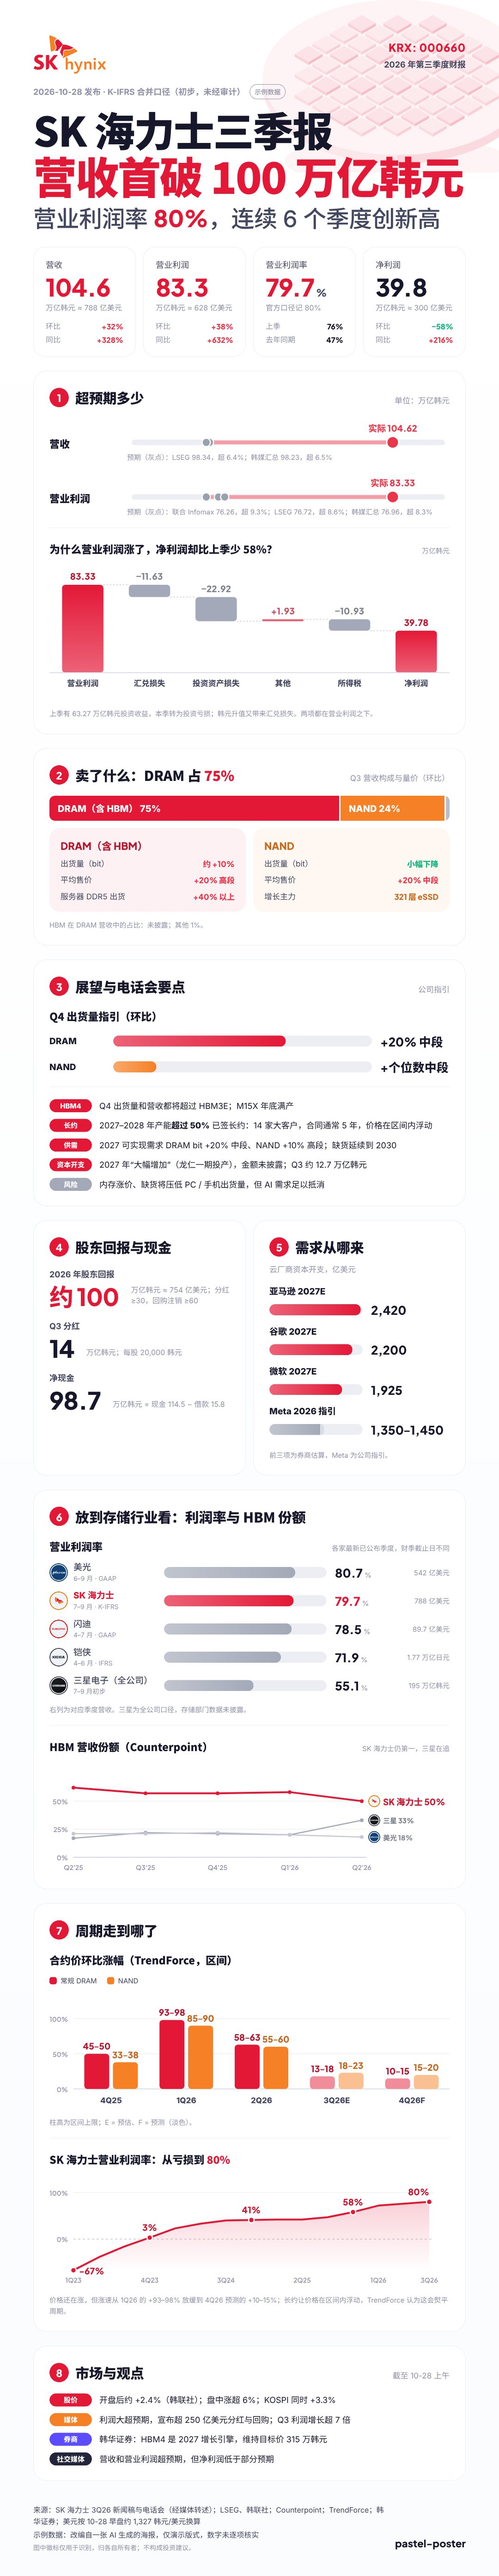
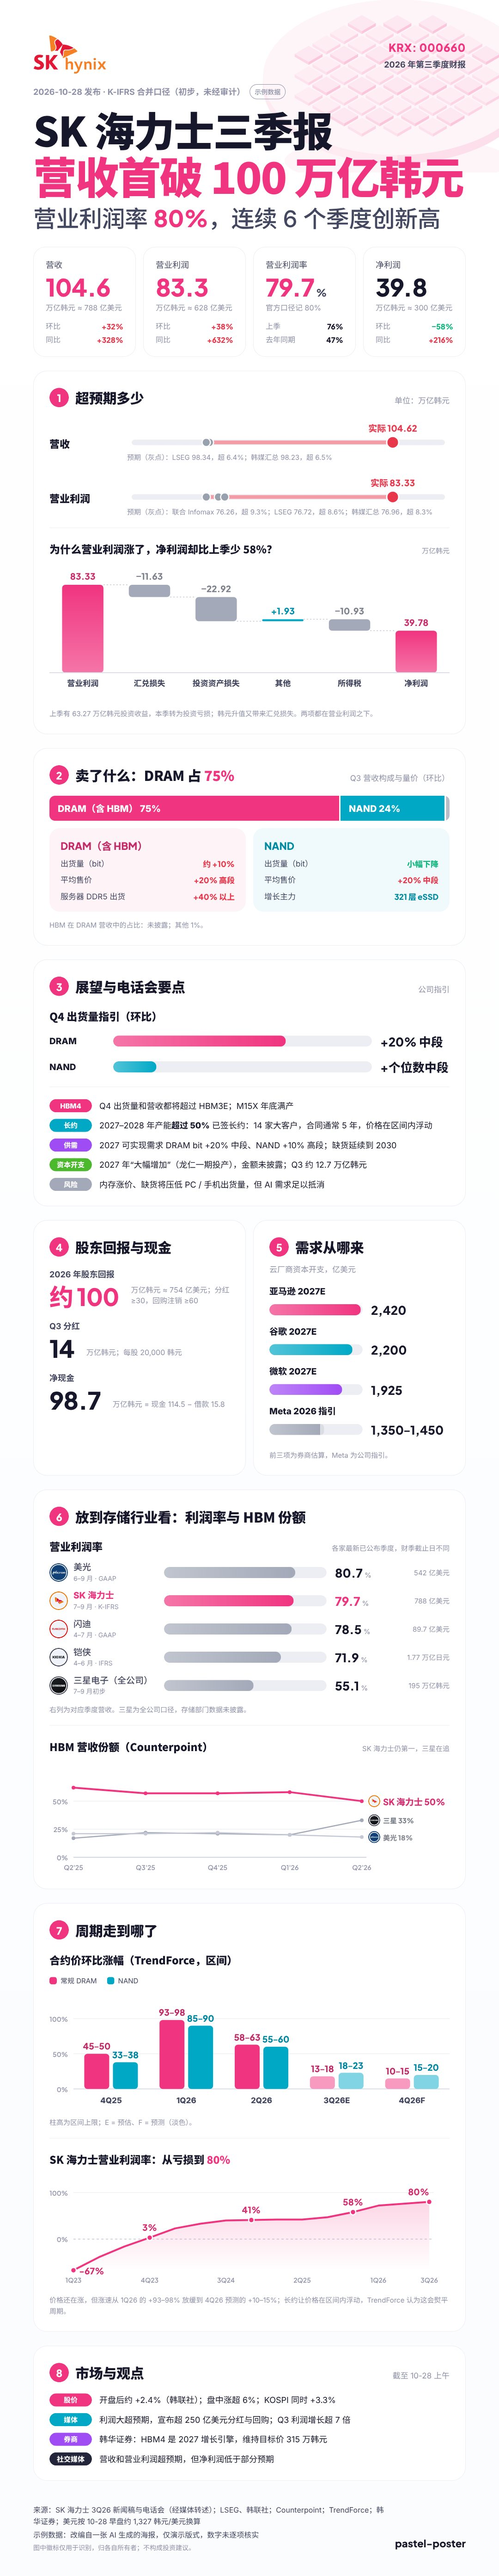
主题色吸附到自有 8 色，强调色只用在重点处
- brand.colors / accent 只用来判断色系，自动换成 8 色里最接近的颜色（品牌原色偏淡偏灰时会发土）；exact_color 可保留原色
- 并列类别默认多彩：横条、圆环、卡片、要点标签、步骤、时间线、小多图、漏斗、金字塔按分类色显示，colors:"accent" 才统一用强调色
- 瀑布图增项改用第二分类色；字标等外部图片下载加重试
- 同步 style、palette、sections、logos、SKILL、schema 和效果图

Claude-Session: https://claude.ai/code/session_0139H7ZCURJBvAAQ8BsmNvxP

diff --git a/skill/pastel-poster/assets/poster-template.html b/skill/pastel-poster/assets/poster-template.html
@@ -525,11 +525,17 @@ function isoSVG(kind,pal,width,shadow,maxH){if(!DRAW[kind])return"";const B=new 
 
 /* ---------- 颜色与文字 ---------- */
 const BRANDC=((SPEC.brand&&SPEC.brand.colors)||[]).map(c=>c.toLowerCase());
-const ACC=(SPEC.accent||BRANDC[0]||CATS[0]).toLowerCase();
+// 主题色吸附：品牌色只用来判断色系，换成 8 色里色相最接近的那个（品牌色偏淡、偏灰时直接画会发土）；
+// 发灰、近黑近白的颜色用默认靛紫。确实要原色时写 "exact_color": true
+function hsl(h){const[r,g,b]=hex2rgb(h).map(v=>v/255),mx=Math.max(r,g,b),mn=Math.min(r,g,b),l=(mx+mn)/2,d=mx-mn;
+  if(!d)return[0,0,l];const s=d/(1-Math.abs(2*l-1));let H=mx===r?((g-b)/d)%6:mx===g?(b-r)/d+2:(r-g)/d+4;return[(H*60+360)%360,s,l]}
+function snapTheme(c){if(!c)return CATS[0];c=c.toLowerCase();if(SPEC.exact_color||CATS.includes(c))return c;const[h,sat,l]=hsl(c);
+  if(sat<.2||l<.12||l>.93)return CATS[0];let best=CATS[0],bd=1e9;
+  CATS.forEach(k=>{const[h2,,l2]=hsl(k),dh=Math.min(Math.abs(h-h2),360-Math.abs(h-h2)),d=dh+Math.abs(l-l2)*60;if(d<bd){bd=d;best=k}});return best}
+const ACC=snapTheme(SPEC.accent||BRANDC[0]);
 // 分类色：强调色（品牌色）和品牌辅色排前面，再接 8 色里和它们不太像的；强调色本身是 8 色之一时直接从它轮转
 const cdist=(a,b)=>{const x=hex2rgb(a),y=hex2rgb(b);return Math.hypot(x[0]-y[0],x[1]-y[1],x[2]-y[2])};
-const HEAD=[ACC,...BRANDC.filter(c=>c!==ACC)];
-const PAL=CATS.includes(ACC)&&HEAD.length===1?[...CATS.slice(CATS.indexOf(ACC)),...CATS.slice(0,CATS.indexOf(ACC))]:[...HEAD,...CATS.filter(c=>HEAD.every(h=>cdist(c,h)>110))];
+const PAL=CATS.includes(ACC)?[...CATS.slice(CATS.indexOf(ACC)),...CATS.slice(0,CATS.indexOf(ACC))]:[ACC,...CATS.filter(c=>cdist(c,ACC)>110)];
 // 文字安全色：太浅的颜色（黄、浅青等品牌色）用作文字时自动加深，保证在白底上看得清
 const lum=h=>{const[r,g,b]=hex2rgb(h).map(v=>{v/=255;return v<=.03928?v/12.92:Math.pow((v+.055)/1.055,2.4)});return .2126*r+.7152*g+.0722*b};
 function ink(c){let x=c;for(let t=.1;t<.8&&1.05/(lum(x)+.05)<3.2;t+=.08)x=mix(c,K,t);return x}
@@ -601,7 +607,7 @@ const CH={
     const vals=bars.flatMap(b=>[b.a,b.b]),lo=Math.min(0,...vals),hi=Math.max(...vals);
     const top=44,H=s.height||250,xl=60,bk=(s.brackets||[]).length?48:0,C=new Chart(w,top+H+xl+bk);
     const y=v=>top+(hi-v)/(hi-lo)*H,n=bars.length,slot=w/n,bw=Math.min(118,slot*.62),tid="t"+(UID++);C.def(vgrad(tid,ACC));
-    const colOf=b=>b.it.g!=null?PAL[b.it.g%8]:b.it.total?ACC:s.colors==="updown"?(b.b>=b.a?UD.up:UD.down):(b.b>=b.a?mix(ACC,W,.3):DIM);
+    const colOf=b=>b.it.g!=null?PAL[b.it.g%8]:b.it.total?ACC:s.colors==="updown"?(b.b>=b.a?UD.up:UD.down):(b.b>=b.a?PAL[1]:DIM);
     bars.forEach((b,k)=>{const it=b.it,cx=slot*(k+.5),x0=cx-bw/2,c=colOf(b),st=it.state||"solid";const y1=y(Math.max(b.a,b.b)),y2=y(Math.min(b.a,b.b));
       if(it.total&&it.stack){const segs=[];for(let j=k-1;j>=0&&!bars[j].it.total;j--)segs.unshift(bars[j]);
         segs.forEach(sg=>{const cc=colOf(sg);rect(C,x0,y(sg.b),bw,y(sg.a)-y(sg.b),cc,sg.it.state,cc)})}
@@ -723,7 +729,7 @@ const SEC={
   bars(s){const hiOf=v=>Array.isArray(v)?v[1]:v,max=s.max||Math.max(...s.items.map(b=>hiOf(b.value)))*1.02,hl=s.items.some(b=>b.highlight),ex=s.items.some(b=>b.extra);
     const pc=v=>(Math.max(0,v)/max*100).toFixed(1);
     return `<div class="bars${s.layout==="stack"?" stack":""}" style="${s.label_width?`--lw:${s.label_width}px;`:""}${s.value_width?`--vw:${s.value_width}px`:""}">${s.items.map((b,i)=>{
-      const [lo,hi]=Array.isArray(b.value)?b.value:[b.value,b.value],g=hl?(b.highlight?"acc":"gray"):s.colors==="cats"?i:(b.tone==="gray"?"gray":"acc");
+      const [lo,hi]=Array.isArray(b.value)?b.value:[b.value,b.value],g=hl?(b.highlight?"acc":"gray"):b.tone==="gray"?"gray":s.colors==="accent"?"acc":i;
       const ci=b.company?coInfo(b.company):null,txt=`<div class="bl"><b>${rich(b.label||(ci&&(ci.name||ci.code))||"")}</b>${b.sub||ci?`<span>${esc(b.sub||(ci&&ci.code)||"")}</span>`:""}</div>`;
       const label=b.company?`<div class="bl-co">${badge(b.company,40)}${txt}</div>`:txt;
       const val=b.text!=null?rich(b.text):(lo===hi?fmt(lo):`${fmt(lo)}–${fmt(hi)}`)+(s.unit?`<small>${esc(s.unit)}</small>`:"");
@@ -734,10 +740,10 @@ const SEC={
   columns(s){return `${s.series.length>1?legendHTML(s.series.map((q,j)=>["box",q.g!=null?PAL[q.g%8]:PAL[j%8],q.name])):""}<div class="chart" data-chart="${reg("columns",{s})}"></div>`},
   // 标签 + 一句话：电话会要点、市场观点、风险提示。tone: up/down/gray/dark/accent 或分类色序号，不写则同名标签同色
   points(s){const tags=[...new Set(s.items.map(p=>p.tag))];return `<div class="pts" style="--cols:${s.cols||1}">${s.items.map(p=>{
-    const c=p.tone!=null?toneHex(p.tone):s.colors==="cats"?PAL[tags.indexOf(p.tag)%8]:ACC;return `<div class="pt">${p.tag?`<span class="ptag" style="background:${c}">${esc(p.tag)}</span>`:""}<div>${p.company?`<span class="co-in">${badge(p.company,30)}${esc(coInfo(p.company).name||coInfo(p.company).code)}</span>`:""}${rich(p.text)}${p.sub?`<small>${rich(p.sub)}</small>`:""}</div></div>`}).join("")}</div>`},
+    const c=p.tone!=null?toneHex(p.tone):s.colors==="accent"?ACC:PAL[tags.indexOf(p.tag)%PAL.length];return `<div class="pt">${p.tag?`<span class="ptag" style="background:${c}">${esc(p.tag)}</span>`:""}<div>${p.company?`<span class="co-in">${badge(p.company,30)}${esc(coInfo(p.company).name||coInfo(p.company).code)}</span>`:""}${rich(p.text)}${p.sub?`<small>${rich(p.sub)}</small>`:""}</div></div>`}).join("")}</div>`},
   callout(s){const c=toneHex(s.tone||"accent");return `<div class="callout" style="background:${mix(c,W,.91)}"><b style="color:${ink(mix(c,K,.2))}">${rich(s.title)}</b>${s.text?`<span>${rich(s.text)}</span>`:""}</div>`},
   text(s){return `<div class="p-text">${s.title?`<h3>${rich(s.title)}</h3>`:""}${s.text?`<p>${rich(s.text)}</p>`:""}</div>`},
-  cards(s){return `<div class="mcards" style="--n:${s.cols||Math.min(s.items.length,4)}">${s.items.map((c,i)=>`<div class="mcard" data-g="${s.colors==="cats"?i:"acc"}">${c.company?badge(c.company,44):""}${c.icon?`<i class="ico" data-ico="${esc(c.icon)}" style="--is:40px"></i>`:""}<b>${rich(c.title||(c.company&&coInfo(c.company).name)||"")}</b>${c.value!=null?`<strong>${rich(c.value)}</strong>`:""}${c.sub?`<span>${rich(c.sub)}</span>`:""}</div>`).join("")}</div>`},
+  cards(s){return `<div class="mcards" style="--n:${s.cols||Math.min(s.items.length,4)}">${s.items.map((c,i)=>`<div class="mcard" data-g="${s.colors==="accent"?"acc":i}">${c.company?badge(c.company,44):""}${c.icon?`<i class="ico" data-ico="${esc(c.icon)}" style="--is:40px"></i>`:""}<b>${rich(c.title||(c.company&&coInfo(c.company).name)||"")}</b>${c.value!=null?`<strong>${rich(c.value)}</strong>`:""}${c.sub?`<span>${rich(c.sub)}</span>`:""}</div>`).join("")}</div>`},
   // 热力表：格子颜色按 colors（不给则按 values）相对 center 的方向和幅度
   heatmap(s){const ctr=s.center??0,cv=s.rows.flatMap(r=>(r.colors||r.values).filter(v=>typeof v==="number").map(v=>Math.abs(v-ctr))),m=s.range||Math.max(...cv)||1;
     const f=v=>s.format==="pct"?(v>0?"+":"")+fmt(v)+"%":s.format==="x"?v.toFixed(1)+"×":fmt(v);
@@ -819,7 +825,7 @@ Object.assign(SEC,{
   treemap(s){const g=[...new Set(s.items.map(i=>i.group).filter(Boolean))];return (g.length>1?legendHTML(g.map((x,j)=>["box",PAL[j%PAL.length],x])):"")+`<div class="chart tm" data-chart="${reg("treemap",{s})}"></div>`},
   // 流程转化：漏斗
   funnel(s){const mx=Math.max(...s.items.map(i=>i.value)),u=s.unit||"",n=s.items.length;
-    return `<div class="fun">${s.items.map((it,k)=>{const wd=Math.max(16,it.value/mx*100),c=it.tone!=null?toneHex(it.tone):mix(ACC,W,k/Math.max(1,n-1)*.55);
+    return `<div class="fun">${s.items.map((it,k)=>{const wd=Math.max(16,it.value/mx*100),c=it.tone!=null?toneHex(it.tone):s.colors==="accent"?mix(ACC,W,k/Math.max(1,n-1)*.55):PAL[k%PAL.length];
       const cv=k?`<div class="fun-cv">↓ ${esc(s.conv_label||"转化")} ${(it.value/s.items[k-1].value*100).toFixed(1)}%</div>`:"";
       return cv+`<div class="fun-row">${lblock(it)}<div class="fun-bar"><div style="width:${wd.toFixed(1)}%;background:${c};color:${onC(c)}">${it.text!=null?rich(it.text):fmt(it.value)+esc(u)}</div></div></div>`}).join("")}</div>`},
   // 多维对比：雷达（≤3 个系列）
@@ -835,18 +841,18 @@ Object.assign(SEC,{
   // 流向：桑基图
   sankey(s){return `<div class="chart" data-chart="${reg("sankey",{s})}"></div>`},
   // 小多图：一组迷你走势卡片
-  sparks(s){return `<div class="spk" style="--n:${s.cols||3}">${s.items.map(it=>{const ok=it.values.filter(v=>v!=null),last=ok.at(-1),first=ok[0];
+  sparks(s){return `<div class="spk" style="--n:${s.cols||3}">${s.items.map((it,i)=>{const ok=it.values.filter(v=>v!=null),last=ok.at(-1),first=ok[0];
     const ch=it.change??(first?(last/first-1)*100:null),dir=typeof ch==="number"?(ch>=0?"up":"down"):autoTone(ch);
-    return `<div class="spk-it"><div class="spk-h">${lblock(it,30)}</div><div class="spk-v"><b>${it.value_text!=null?rich(it.value_text):fmt(last)}<small>${esc(s.unit||"")}</small></b>${ch!=null?`<em class="${dir}">${typeof ch==="string"?esc(ch):(ch>=0?"+":"−")+Math.abs(ch).toFixed(1)+"%"}</em>`:""}</div><div class="chart" data-chart="${reg("spark",{it,dir,s})}" style="height:64px"></div></div>`}).join("")}</div>`},
+    return `<div class="spk-it"><div class="spk-h">${lblock(it,30)}</div><div class="spk-v"><b>${it.value_text!=null?rich(it.value_text):fmt(last)}<small>${esc(s.unit||"")}</small></b>${ch!=null?`<em class="${dir}">${typeof ch==="string"?esc(ch):(ch>=0?"+":"−")+Math.abs(ch).toFixed(1)+"%"}</em>`:""}</div><div class="chart" data-chart="${reg("spark",{it,dir,s,i})}" style="height:64px"></div></div>`}).join("")}</div>`},
 
   // 时间线：vertical（默认）或 horizontal（≤6 个节点）
-  timeline(s){const it=s.items,dot=(x)=>{const c=x.tone!=null?toneHex(x.tone):x.highlight||s.highlight_all!==false?ACC:DIM;
+  timeline(s){const it=s.items,dot=(x)=>{const i=it.indexOf(x),c=x.tone!=null?toneHex(x.tone):s.colors==="accent"?ACC:PAL[i%PAL.length];
       return x.icon?`<i class="dt big" style="background:${c}"><i class="ico" data-ico="${esc(x.icon)}" style="--is:24px;color:#fff"></i></i>`:`<i class="dt" style="background:${c}"></i>`};
     const body=x=>`${x.company?`<span class="lab-co">${badge(x.company,28)}</span>`:""}<b>${rich(x.title)}</b>${x.text?`<span>${rich(x.text)}</span>`:""}`;
     if(s.layout==="horizontal")return `<div class="tlh" style="--n:${it.length}"><i class="tlh-ln"></i>${it.map(x=>`<div class="tlh-it${x.highlight?" hl":""}"><div class="tlh-t">${rich(x.time)}</div><div class="tlh-d">${dot(x)}</div>${body(x)}</div>`).join("")}</div>`;
     return `<div class="tlv">${it.map((x,i)=>`<div class="tlv-it${x.highlight?" hl":""}"><div class="tlv-t">${rich(x.time)}</div><div class="tlv-d">${i<it.length-1?`<i class="ln"></i>`:""}${dot(x)}</div><div class="tlv-c">${body(x)}</div></div>`).join("")}</div>`},
   // 步骤 / 流程：row（≤5 步横排带箭头）或 list（竖排）
-  steps(s){const it=s.items,lay=s.layout||(it.length<=5?"row":"list"),c=x=>x.tone!=null?toneHex(x.tone):ACC;
+  steps(s){const it=s.items,lay=s.layout||(it.length<=5?"row":"list"),c=x=>x.tone!=null?toneHex(x.tone):s.colors==="accent"?ACC:PAL[it.indexOf(x)%PAL.length];
     const num=(x,i)=>x.icon?`<i class="ico" data-ico="${esc(x.icon)}" style="--is:28px;color:${onC(c(x))}"></i>`:`<span style="color:${onC(c(x))}">${i+1}</span>`;
     if(lay==="row")return `<div class="stp" style="--n:${it.length}">${it.map((x,i)=>`<div class="stp-it">${i<it.length-1?`<i class="stp-ar"><em></em></i>`:""}<div class="stp-n" style="background:${c(x)}">${num(x,i)}</div><b>${rich(x.title)}</b>${x.text?`<span>${rich(x.text)}</span>`:""}</div>`).join("")}</div>`;
     return `<div class="stl">${it.map((x,i)=>`<div class="stl-it"><div class="stl-d">${i<it.length-1?`<i class="ln"></i>`:""}<div class="stp-n" style="background:${c(x)}">${num(x,i)}</div></div><div class="stl-c"><b>${rich(x.title)}</b>${x.text?`<span>${rich(x.text)}</span>`:""}</div></div>`).join("")}</div>`},
@@ -930,7 +936,7 @@ Object.assign(CH,{
       C.svg(`<polygon points="${q.values.map((v,k)=>P(pt(k,v))).join(" ")}" fill="${c}" fill-opacity="${hl&&!q.highlight?.06:.16}" stroke="${c}" stroke-width="${hl&&!q.highlight?2:3}" stroke-linejoin="round"/>`);
       q.values.forEach((v,k)=>{const[x,y]=pt(k,v);C.svg(`<circle cx="${x.toFixed(1)}" cy="${y.toFixed(1)}" r="4.5" fill="${c}"/>`);if(s.series.length===1||q.highlight)C.text(x,y-9,fmt(v),"sm","c","b",ink(c))})});
     C.done(el)},
-  ring(el,w,{it,i,s}){const size=Math.min(w,s.size||160),C=new Chart(w,size),cx=w/2,cy=size/2,sw=s.thickness||15,r=size/2-sw/2-2,c=it.tone!=null?toneHex(it.tone):s.colors==="cats"?PAL[i%PAL.length]:ACC;
+  ring(el,w,{it,i,s}){const size=Math.min(w,s.size||160),C=new Chart(w,size),cx=w/2,cy=size/2,sw=s.thickness||15,r=size/2-sw/2-2,c=it.tone!=null?toneHex(it.tone):s.colors==="accent"?ACC:PAL[i%PAL.length];
     const f=Math.max(0,Math.min(1,it.value/(it.max||s.max||100))),L=2*Math.PI*r;
     C.svg(`<circle cx="${cx}" cy="${cy}" r="${r}" fill="none" stroke="#eef0f4" stroke-width="${sw}"/>`);
     if(f>0)C.svg(`<circle cx="${cx}" cy="${cy}" r="${r}" fill="none" stroke="${c}" stroke-width="${sw}" stroke-linecap="round" stroke-dasharray="${(f*L).toFixed(1)} ${L.toFixed(1)}" transform="rotate(-90 ${cx} ${cy})"/>`);
@@ -949,8 +955,8 @@ Object.assign(CH,{
     names.forEach(n=>{const p=pos[n],t=`<b>${esc(n)}</b> ${fmt(val(n))}${esc(s.unit||"")}`;C.svg(`<rect x="${f(p.x)}" y="${f(p.y)}" width="${nw}" height="${f(p.h)}" rx="3" fill="${color[n]}"/>`);
       if(layer[n]===0)C.text(p.x-10,p.y+p.h/2,t,"sm sl","r","m");else if(layer[n]===Lc-1)C.text(p.x+nw+10,p.y+p.h/2,t,"sm sl","l","m");else C.text(p.x+nw+8,p.y+p.h/2,t,"sm sl mid","l","m")});
     C.done(el)},
-  spark(el,w,{it,dir,s}){const v=it.values,n=v.length,ok=v.filter(x=>x!=null),lo=Math.min(...ok),hi=Math.max(...ok),C=new Chart(w,64),X=i=>4+i/(n-1||1)*(w-8),Y=x=>6+(hi-x)/((hi-lo)||1)*52;
-    const c=it.tone!=null?toneHex(it.tone):s.colors==="updown"&&dir?UD[dir]:ACC,id="sp"+(UID++),pts=v.map((x,i)=>x==null?null:[X(i),Y(x)]).filter(Boolean),f=p=>p[0].toFixed(1)+","+p[1].toFixed(1);
+  spark(el,w,{it,dir,s,i}){const v=it.values,n=v.length,ok=v.filter(x=>x!=null),lo=Math.min(...ok),hi=Math.max(...ok),C=new Chart(w,64),X=i=>4+i/(n-1||1)*(w-8),Y=x=>6+(hi-x)/((hi-lo)||1)*52;
+    const c=it.tone!=null?toneHex(it.tone):s.colors==="updown"&&dir?UD[dir]:s.colors==="accent"?ACC:PAL[(i||0)%PAL.length],id="sp"+(UID++),pts=v.map((x,i)=>x==null?null:[X(i),Y(x)]).filter(Boolean),f=p=>p[0].toFixed(1)+","+p[1].toFixed(1);
     C.def(`<linearGradient id="${id}" x1="0" y1="0" x2="0" y2="1"><stop offset="0" stop-color="${c}" stop-opacity=".22"/><stop offset="1" stop-color="${c}" stop-opacity="0"/></linearGradient>`);
     C.svg(`<path d="M${pts[0][0].toFixed(1)},62L${pts.map(f).join("L")}L${pts.at(-1)[0].toFixed(1)},62Z" fill="url(#${id})"/><path d="M${pts.map(f).join("L")}" fill="none" stroke="${c}" stroke-width="3" stroke-linejoin="round" stroke-linecap="round"/><circle cx="${pts.at(-1)[0].toFixed(1)}" cy="${pts.at(-1)[1].toFixed(1)}" r="4.5" fill="${c}"/>`);
     C.done(el)},
@@ -964,7 +970,7 @@ Object.assign(CH,{
       const st=n._d===0?`background:${c};color:${onC(c)}`:leaf?`background:#fff;border:1.5px solid ${mix(c,W,.55)};color:#16172a`:`background:${mix(c,W,.86)};color:${ink(mix(c,K,.15))}`;
       return `<div class="tn" style="left:${f(X(n._d))}px;top:${f(n._y+6)}px;width:${f(colW)}px;height:${rowH-12}px;${st}"><b>${rich(n.label)}</b>${n.sub?`<span>${rich(n.sub)}</span>`:""}</div>`}).join("")},
   pyramid(el,w,s){const it=s.items,n=it.length,rowH=s.row_height||74,gap=6,pw=Math.min(w*(s.width||.46),480),C=new Chart(w,n*(rowH+gap)-gap),cx=pw/2,half=v=>(.14+.86*v)*pw/2,f=v=>v.toFixed(1);
-    it.forEach((x,k)=>{const y0=k*(rowH+gap),y1=y0+rowH,c=x.tone!=null?toneHex(x.tone):mix(ACC,W,k/Math.max(1,n-1)*.62);
+    it.forEach((x,k)=>{const y0=k*(rowH+gap),y1=y0+rowH,c=x.tone!=null?toneHex(x.tone):s.colors==="accent"?mix(ACC,W,k/Math.max(1,n-1)*.62):PAL[k%PAL.length];
       C.svg(`<polygon points="${f(cx-half(k/n))},${y0} ${f(cx+half(k/n))},${y0} ${f(cx+half((k+1)/n))},${y1} ${f(cx-half((k+1)/n))},${y1}" fill="${c}"/>`);
       C.text(cx,(y0+y1)/2,rich(x.title),"pyr","c","m",onC(c));
       if(x.text)C.t.push(`<span class="cl pyr-t" style="left:${f(pw+30)}px;top:${f((y0+y1)/2)}px;width:${f(w-pw-30)}px;transform:translate(0,-50%)">${rich(x.text)}</span>`)});

diff --git a/skill/pastel-poster/scripts/build_poster.py b/skill/pastel-poster/scripts/build_poster.py
@@ -95,9 +95,16 @@ ISO_OBJECTS = {"chip", "module", "rack", "coin", "globe", "battery", "building",
 UA = {"User-Agent": "poster-kit/1.0 (https://github.com/wenjinliuu/poster-kit)"}
 
 
-def fetch(url, timeout=20):
-    with urllib.request.urlopen(urllib.request.Request(url, headers=UA), timeout=timeout) as r:
-        return r.read()
+def fetch(url, timeout=20, tries=3):
+    import time
+    for k in range(tries):  # 维基等站点偶尔超时或限流，稍等重试
+        try:
+            with urllib.request.urlopen(urllib.request.Request(url, headers=UA), timeout=timeout) as r:
+                return r.read()
+        except Exception:
+            if k == tries - 1:
+                raise
+            time.sleep(2 * (k + 1))
 
 
 def icon_names(obj):

diff --git a/skill/pastel-poster/references/style.md b/skill/pastel-poster/references/style.md
@@ -35,8 +35,9 @@
 ## 品牌头部与编号
 
 - 个股、公司事件海报写 `brand`：左边放公司字标（官方字标优先，其次按品牌色重建的文字字标，见 `logos.md`），右边强调色代码和海报类型。
-- **品牌色优先**：涉及某一家公司时，用它 logo 里的颜色做强调色（`brand.colors`，第一个是主色、第二个是辅色），标题大字、重点柱、高亮项都跟着品牌色走；其余分类色自动接 8 色里和品牌色不冲突的颜色。太浅的品牌色（黄、浅青）用作文字时自动加深。
-- **该突破就突破**：主题色是默认，不是枷锁。涨跌用涨跌色，同行对比里别的公司用灰色，提到其他公司时带上它的 logo；产品、类别本身有约定俗成的颜色（如某品牌的产品线）也可以用 `tone` 写十六进制颜色。
+- **主题色吸附到 8 色**：涉及某一家公司时，把它 logo 的主色写进 `brand.colors`，模板只用它判断色系，自动换成 8 色里最接近的那个（绿色品牌 → 翠绿或草绿，蓝色 → 天蓝，红色 → 玫红，发灰、近黑的品牌色 → 默认靛紫）。品牌原色常常偏淡、偏灰，直接铺满会发土，不符合清透风格。官方字标本身不改色。确实要用原色时写 `"exact_color": true`。
+- **强调色用得少才显眼**：强调色只给标题大字、版块编号、单一指标的主图（一条线、一组同一指标的柱）和需要突出的那一项。并列的类别（横条各行、圆环、卡片、要点标签、步骤、时间线节点、小多图、漏斗各层、金字塔各层）默认按分类色多彩显示；想统一用强调色时写 `"colors": "accent"`。
+- **该突破就突破**：涨跌用涨跌色，同行对比里别的公司用灰色、只高亮自己，提到其他公司时带上它的 logo；产品、类别本身有约定俗成的颜色也可以用 `tone` 写十六进制颜色。
 - 深度速览写 `numbered: true`，卡片标题前加强调色圆形编号。
 
 ## 图表

diff --git a/skill/pastel-poster/references/sections.md b/skill/pastel-poster/references/sections.md
@@ -19,7 +19,7 @@
 | `object` | 否 | 右上背景物件，见 `style.md`：`chip` `module` `rack` `coin` `globe` `battery` `building` `wafer` `db` `robot`，或 `{"parts": [...]}` 自己拼 |
 | `updown` | 否 | `"cn"`（默认，红涨绿跌）或 `"us"`（绿涨红跌） |
 | `versions` | 否 | 默认 `["clear"]`（雾彩·清透）。新增风格后，需要对比时写多个，如 `["clear","新风格id"]` |
-| `accent` | 否 | 强调色，默认靛紫 `#5b4cff`；有 `brand.colors` 时默认用第一个品牌色。可以是任意颜色，太浅的颜色用作文字时会自动加深 |
+| `accent` | 否 | 强调色，默认靛紫 `#5b4cff`；有 `brand.colors` 时取第一个品牌色。写任意颜色都会吸附到 8 色里最接近的一个，`"exact_color": true` 才保留原色 |
 | `companies` | 是* | 公司表，键是 `交易所:代码`（或 Yahoo 后缀代码、`市场:代码`），值是 `{"name": "中文名", "code": "显示代码(可选)", "color": "#rrggbb(可选，logo 描边色)"}` |
 | `badge_ring` | 否 | 圆形 logo 的彩色描边：`brand`（默认，取各家 logo 的品牌色）、`category`（跟所在分类色）、`accent`（统一强调色）、`none`（浅灰细边） |
 | `sections` | 是 | 版块数组 |

diff --git a/skill/pastel-poster/SKILL.md b/skill/pastel-poster/SKILL.md
@@ -62,7 +62,7 @@ curl -sfL --max-time 30 -o /tmp/poster-kit.tgz https://codeload.github.com/wenji
 ## 风格要点（详细见 `references/style.md`、`references/palette.md`）
 
 - 底色接近纯白，右上角放淡化的等距主题物件（芯片、光模块、服务器、晶圆、数据库、硬币堆、柱群、电池、楼群、机器人，都不合适就用 `parts` 拼一个，比如床、汽车、杯子），彩色只用在分类、数字和图表上。
-- 讲某家公司时用它的品牌色做强调色；其余地方按需要突破主题色（涨跌色、其他公司灰色、约定俗成的颜色）。
+- 讲某家公司时按它的品牌色系选强调色（自动吸附到 8 色，不用品牌原色）；强调色只用在标题、编号、主图和高亮项，并列的类别、卡片、步骤、标签默认多彩。
 - 分类颜色按 8 色顺序分配，颜色跟着分类走；一张海报不超过 8 个分类。
 - 标题三层：黑色主句、强调色大字、灰色副句。
 - 渐变只用同色深浅（浅 → 深），只用在排行条、重点柱和合计横幅上；不跨色相，不用在文字和分类胶囊上。

diff --git a/skill/pastel-poster/references/palette.md b/skill/pastel-poster/references/palette.md
@@ -13,7 +13,7 @@
 | 7 | 紫罗兰 | `#a04cf5` | 〃 | 〃 | 〃 |
 | 8 | 草绿 | `#4cb82e` | 〃 | 〃 | 〃 |
 
-- 强调色（标题大字、合计横幅、最后一根柱）默认用 1 号靛紫。
+- 强调色（标题大字、合计横幅、最后一根柱）默认用 1 号靛紫；个股海报按品牌色系吸附到这 8 色之一，不用品牌原色。强调色只用在少数重点处，并列类别用分类色多彩显示。
 - 同色渐变：浅端 = 主色混白 32%，深端 = 主色；横幅深端 = 主色加 14% 黑。不做跨色相渐变。
 - 灰色 `#b8bdc8` 专门给“其他”。
 - 这组 8 色已用色盲区分校验脚本检查：亮度带、饱和度、相邻色在色盲和正常视力下的区分度全部通过。文字对比度不足 3:1 的颜色（翠绿、珊瑚橙、湖青、草绿）一律配文字标签，不单独用颜色表达含义。
